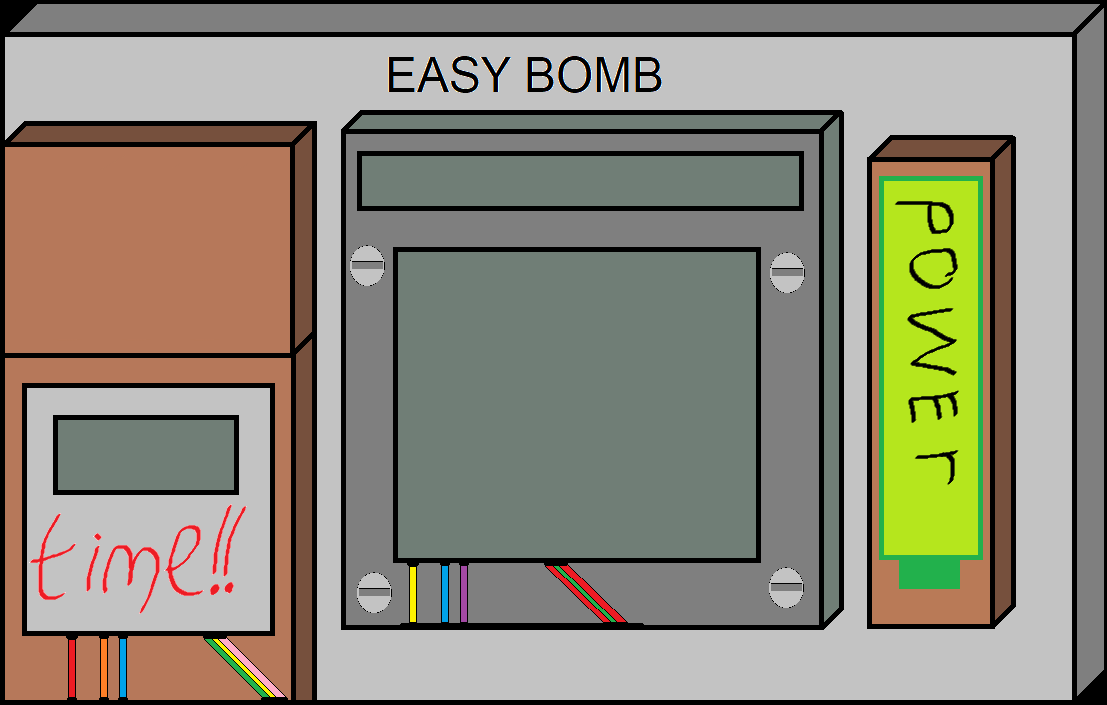
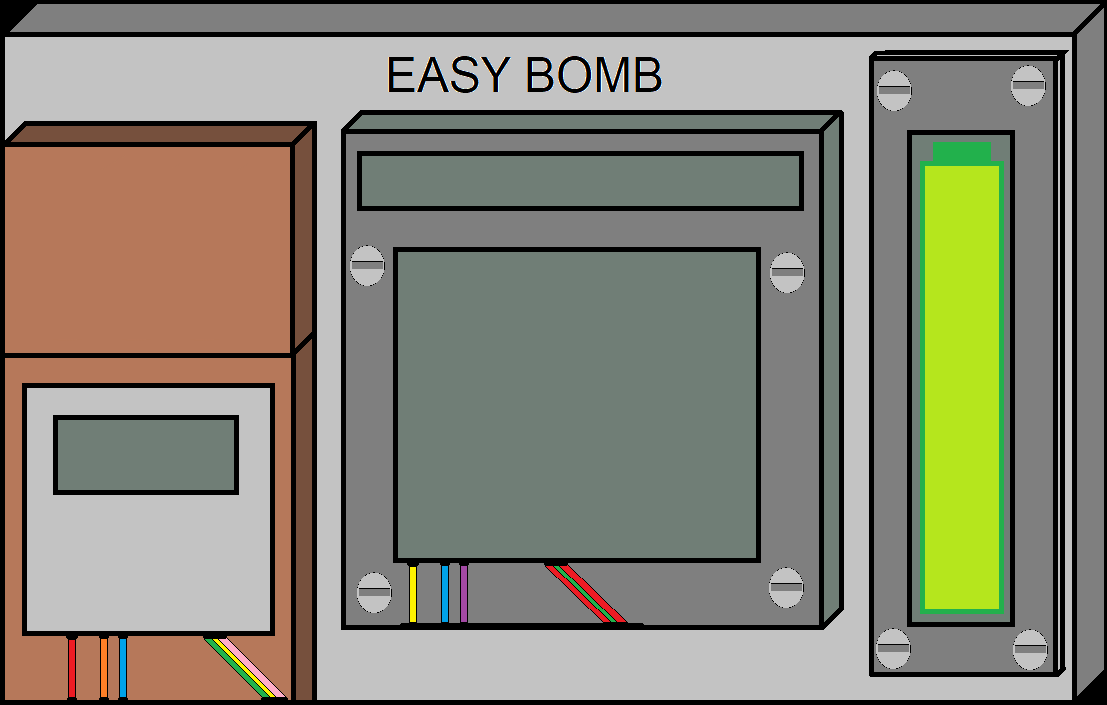
Сырой экран победителя

Changed region(s): [[0.7678, 0.0624, 0.9828, 0.9674], [0.0307, 0.7177, 0.215, 0.8738]]

diff --git a/main.py b/main.py
@@ -2,6 +2,8 @@ import pygame
 import sys
 import os
 from datetime import datetime, timedelta
+from random import choice
+import time
 
 pygame.init()
 
@@ -60,7 +62,8 @@ class AnimatedSpriteIndicator(AnimatedSprite):
     def check(self):
         load_script.arr_indicators[self] = True
         if all(list(load_script.arr_indicators.values())):
-            print(1)
+            check_winner.control_check()
+
 
 
 def load_image(name, colorkey=None):
@@ -195,6 +198,21 @@ def start_screen():
         pygame.display.flip()
 
 
+def finish_menu():
+    fon_finish_menu = AnimatedSprite(pygame.transform.scale(load_image('fon_win.png'), (2000, 600)), 2, 1, 0, 0, 1000,
+                                     600, False)
+    while True:
+        for event in pygame.event.get():
+            if event.type == pygame.QUIT:
+                terminate()
+            if event.type == pygame.MOUSEBUTTONDOWN:
+                return
+        time.sleep(1)
+        fon_finish_menu.update()
+        all_sprites.draw(screen)
+        pygame.display.flip()
+
+
 def push_button(pos):
     if True:
         sorted_coordinates(pos)
@@ -207,6 +225,10 @@ def down_button(pos):
         1]:
         sorted_coordinates(pos)
         load_script.count_button_click += 1
+    elif arr_coordinates[5][0][0] < x < arr_coordinates[5][1][0] and arr_coordinates[5][0][1] < y < \
+            arr_coordinates[5][1][
+                1]:
+        load_script.func_button_click(load_script.count_button_click)
 
 
 def sorted_coordinates(pos):
@@ -235,10 +257,6 @@ def sorted_coordinates(pos):
             arr_coordinates[4][1][
                 1]:
         load_script.serial_number_sprite.update()
-    elif arr_coordinates[5][0][0] < x < arr_coordinates[5][1][0] and arr_coordinates[5][0][1] < y < \
-            arr_coordinates[5][1][
-                1]:
-        load_script.func_button_click(load_script.count_button_click)
 
 
 class Fon(pygame.sprite.Sprite):
@@ -311,48 +329,58 @@ class LoadEasyScript:
             self.indicator_button.update()
 
 
-if start_screen() == "easy_level":
-    easy_levels = set()
-    [easy_levels.add(i) for i in
-     [("blue", 3, "number_517B.png"), ("green", 3, 'number_EA500.png'), ("blue", 3, "number_22081921.png"),
-      ("red", 3, "number_3A3CC9.png")]]
-    generate_level()
-    level = easy_levels.pop()
-    load_script = LoadEasyScript(*level)
-    clock_in_half_hour = datetime.now() + timedelta(seconds=60)
+class CheckWinner:
+    def __init__(self):
+        self.running = True
+
+    def check(self):
+        return self.running
+
+    def control_check(self):
+        self.running = False
 
 
-def main_cycle():
-    clock = pygame.time.Clock()
-    pygame.display.set_caption("bomb disposal simulator")
-    running = True
-    FPS = 60
-    f2 = pygame.font.SysFont('serif', 28)
-    count_button = pygame.font.SysFont('serif', 28)
-    while running:
-        clock.tick(FPS)
-        screen.fill(WHILE)
-        for event in pygame.event.get():
-            if event.type == pygame.QUIT:
-                running = False
-            if event.type == pygame.MOUSEBUTTONUP:
-                push_button(event.pos)
-            if event.type == pygame.MOUSEBUTTONDOWN:
-                down_button(event.pos)
-        time_new = datetime.now()
-        if time_new.strftime('%H:%M %S') == clock_in_half_hour.strftime('%H:%M %S'):
-            terminate()
-        all_sprites.draw(screen)
-        time = clock_in_half_hour - time_new
-        count_button_click = count_button.render(str(load_script.count_button_click), False,
-                                                 (255, 0, 0))
-        time_render = f2.render(str(time.seconds), False,
-                                (255, 0, 0))
-        screen.blit(time_render, (155, 355))
-        screen.blit(count_button_click, (520, 165))
-        pygame.display.flip()
-    return
 
+while True:
+    all_sprites = pygame.sprite.Group()
+    if start_screen() == "easy_level":
+        easy_levels = [("blue", 3, "number_517B.png"), ("green", 3, 'number_EA500.png'), ("blue", 3, "number_22081921.png"),
+          ("red", 3, "number_3A3CC9.png")]
+        generate_level()
+        level = choice(easy_levels)
+        load_script = LoadEasyScript(*level)
+        clock_in_half_hour = datetime.now() + timedelta(seconds=60)
+        check_winner = CheckWinner()
 
-main_cycle()
-terminate()
+    def main_cycle():
+        clock = pygame.time.Clock()
+        pygame.display.set_caption("bomb disposal simulator")
+        FPS = 60
+        f2 = pygame.font.SysFont('serif', 28)
+        count_button = pygame.font.SysFont('serif', 28)
+        while check_winner.check():
+            clock.tick(FPS)
+            screen.fill(WHILE)
+            for event in pygame.event.get():
+                if event.type == pygame.QUIT:
+                    check_winner.control_check()
+                    terminate()
+                if event.type == pygame.MOUSEBUTTONUP:
+                    push_button(event.pos)
+                if event.type == pygame.MOUSEBUTTONDOWN:
+                    down_button(event.pos)
+            time_new = datetime.now()
+            if time_new.strftime('%H:%M %S') == clock_in_half_hour.strftime('%H:%M %S'):
+                terminate()
+            all_sprites.draw(screen)
+            time = clock_in_half_hour - time_new
+            count_button_click = count_button.render(str(load_script.count_button_click), False,
+                                                     (255, 0, 0))
+            time_render = f2.render(str(time.seconds), False,
+                                    (255, 0, 0))
+            screen.blit(time_render, (155, 355))
+            screen.blit(count_button_click, (520, 165))
+            pygame.display.flip()
+        screen.fill([0, 0, 0])
+        finish_menu()
+    main_cycle()
